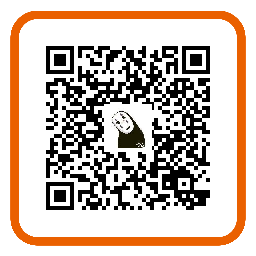
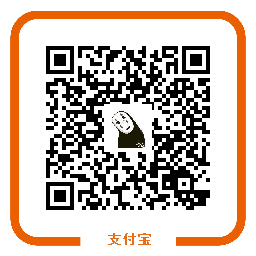
add donate
1.添加支付宝捐赠二维码
2.修改一篇博客名错误

Changed region(s): [[0.3125, 0.9062, 0.6875, 0.9688]]

diff --git a/_includes/themes/twitter/default.html b/_includes/themes/twitter/default.html
@@ -74,8 +74,7 @@
           
           <a class="github" href="https://github.com/yanhaijing/yanhaijing.github.com" target="_blank" title="Fork me on GitHub"> <img width="20" height="20" align="Fork me on GitHub" src="{{ HOME_PATH }}img/auth-github.png" /></a>
           <a class="weibo" href="http://weibo.com/yanhaijing1234/profile" target="_blank" title="weibo"> <img width="20" height="20" align="weibo" src="{{ HOME_PATH }}img/auth-weibo.png" /></a>
-          <a class="rss" href="/rss.xml" target="_blank" title="RSS"> <img width="19" height="19" alt="RSS" src="{{ HOME_PATH }}img/rss.jpg" /></a>
-          <a class="alipay" href='http://me.alipay.com/yanhaijing' target="_blank" title="alipay"> <img width="80" height="19" alt="alipay" src='{{ HOME_PATH }}img/btn-index.png' /></a>
+          <a class="rss" href="/rss.xml" target="_blank" title="RSS"> <img width="19" height="19" alt="RSS" src="{{ HOME_PATH }}img/rss.jpg" /></a>          
           {% include JB/analytics %}                    
         </p>
       </footer>

diff --git a/_includes/themes/twitter/post.html b/_includes/themes/twitter/post.html
@@ -8,8 +8,9 @@
       <span>{{ page.date | date_to_long_string }}</span>
     </div>
     <div class="content">
-      {{ content }}
+      {{ content }}     
       {% include JB/copyright %}
+      {% include JB/alipay %}
     </div>
 
   {% unless page.categories == empty %}

diff --git a/assets/css/my-style.css b/assets/css/my-style.css
@@ -4,3 +4,9 @@
 	border: 2px solid #FFBFBF;
 	font:14px 微软雅黑;
 }
+.donate{
+	
+}
+.donate figcaption{
+	text-indent: 45px;
+}

diff --git a/_posts/css/2013-9-2-functional-css-fcss.md b/_posts/css/2013-9-2-functional-css-fcss.md
@@ -1,6 +1,6 @@
 ---
 layout: post
-title: 函数式-CSS
+title: 函数式 CSS
 category : css
 tagline: "译"
 tags : [css]
